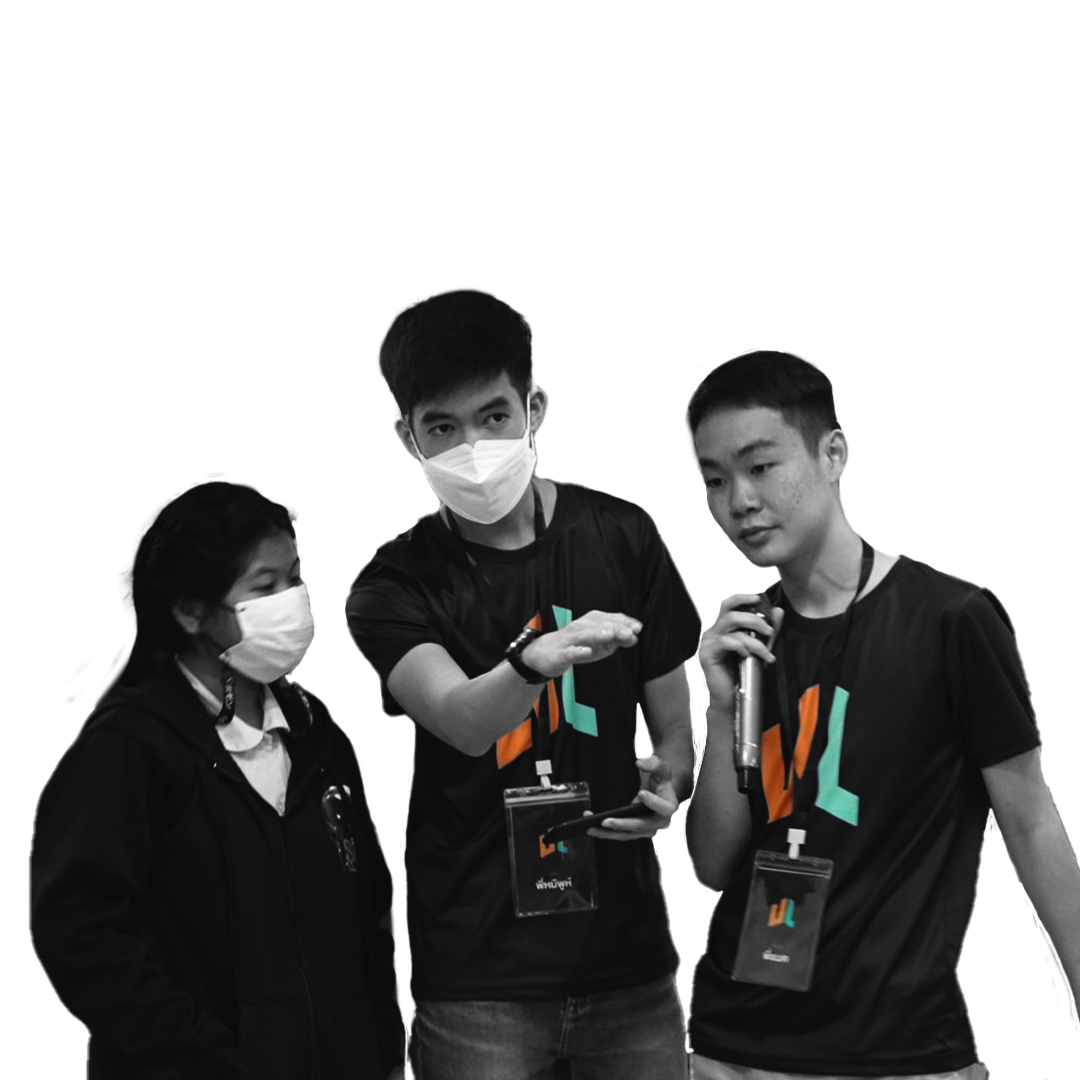
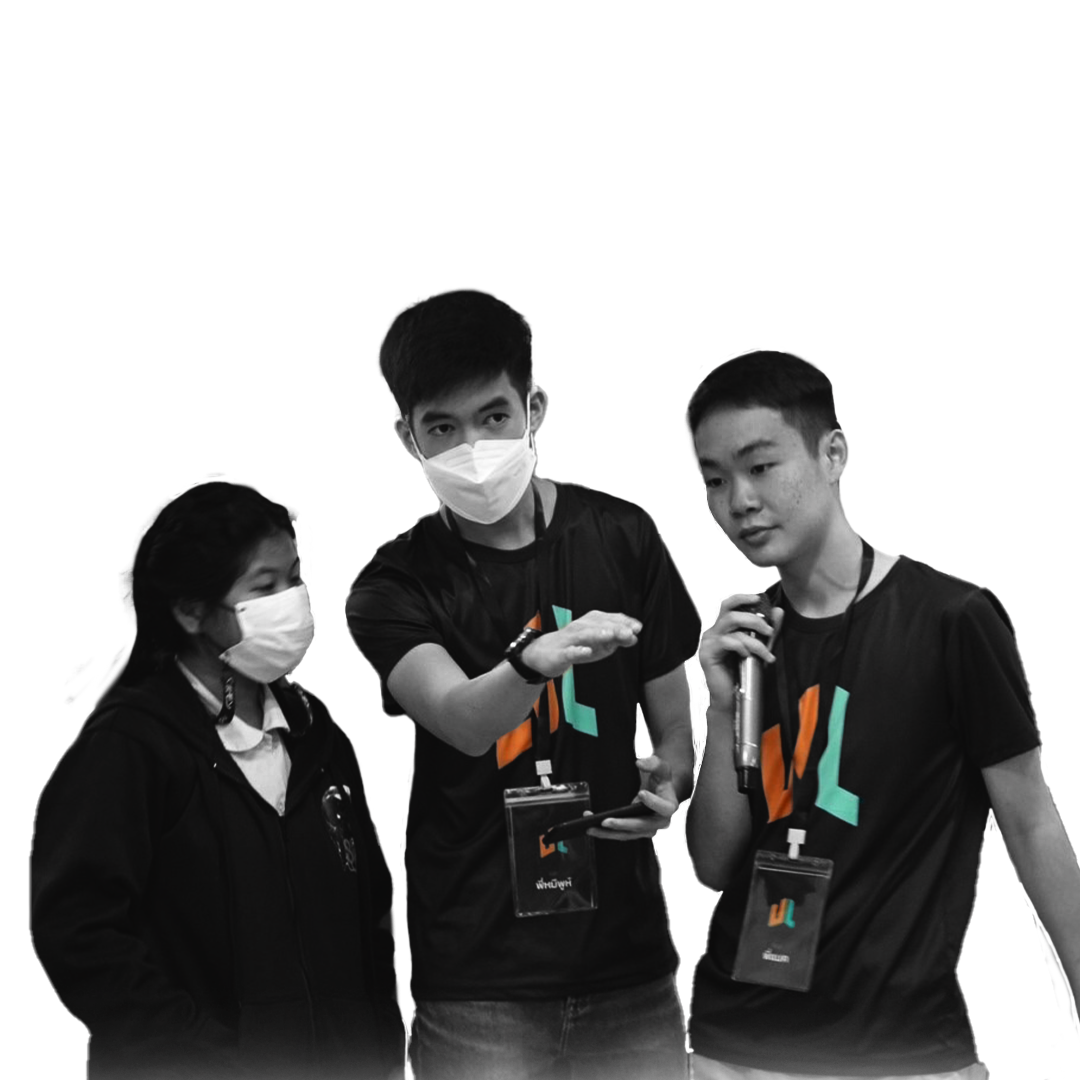
gradient pic

Changed region(s): [[0.0611, 0.9472, 0.9167, 1.0]]

diff --git a/index.html b/index.html
@@ -7,7 +7,7 @@
     <meta http-equiv="X-UA-Compatible" content="ie=edge">
     <title>UNILANG</title>
     <link rel="stylesheet" href="style.css">
-    <link rel="icon" type="image/x-icon" href="image/UNILANG logo.png">
+    <link rel="icon" type="image/x-icon" href="image/Circle-logo.png">
   </head>
     <style>
         * {
@@ -65,10 +65,12 @@
         mark.orange {
             color:#ff931d;
             background: none;
+            border: none;
         }
         mark.green {
             color:#04f7b3;
             background: none;
+            border: none;
         }
         span {
             color:#04f7b3;
@@ -266,6 +268,22 @@
             font-size: 30px;
             font-family: "Muli-Bold";
         }
+        #boldblack { 
+            background-color: black;
+            border: none;
+            padding: 5px;
+            border: 2px solid;
+        }
+        #boldorange { 
+            background-color: #ff931d;
+            border: none;
+            position: absolute;
+            top: 380px;
+            left: 500px;
+            font-size: 35px;
+            padding: 5px;
+            border: 2px solid;
+        }
     </style>
     <body>
         <div id="blob"></div>
@@ -281,7 +299,7 @@
             </a></li>
         </div>
             <img class="logo-bg" src="image/UNILANG logo.png" width=auto height=auto></img>
-            <img class="avatar" src="image/foreground1.png" width=auto height=auto></img>
+            <img class="avatar" src="image/foreground1-edgeblur.png" width=auto height=auto></img>
             <div class="drone-container">
                 <img class="drone" src="image/drone.png" width=auto height=auto></img>
             </div>
@@ -298,14 +316,14 @@
             </div>
         <div id="left-side" class="side">
             <h2 class="title">
-                <div id="Big-text-orange">Taught</div> 
-                <div id="number-black">x,xxx students</div>
+                <div id="Big-text-orange">170</div> 
+                <mark id="boldblack">Taught</mark>
             </h2>
         </div>
         <div id="right-side" class="side">
             <h2 class="title">
-                <div id="Big-text-grey">Raised</div> 
-                <div id="number-white">x,xxxx Baht</div>
+                <div id="Big-text-grey">14,118</div> 
+                <mark id="boldorange">Raised</mark>
             </h2>
         </div>
     </body>
